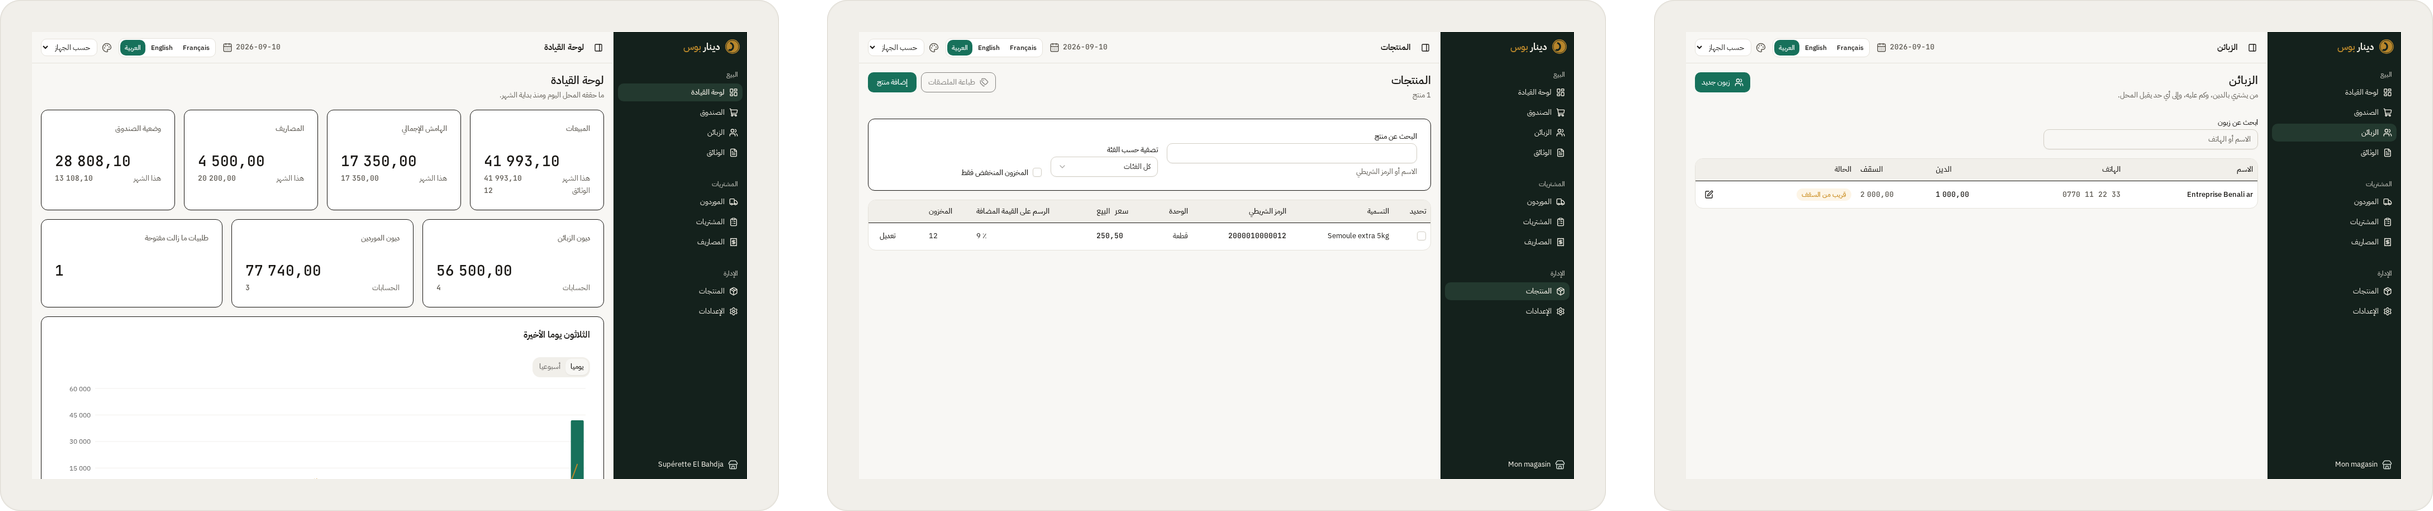
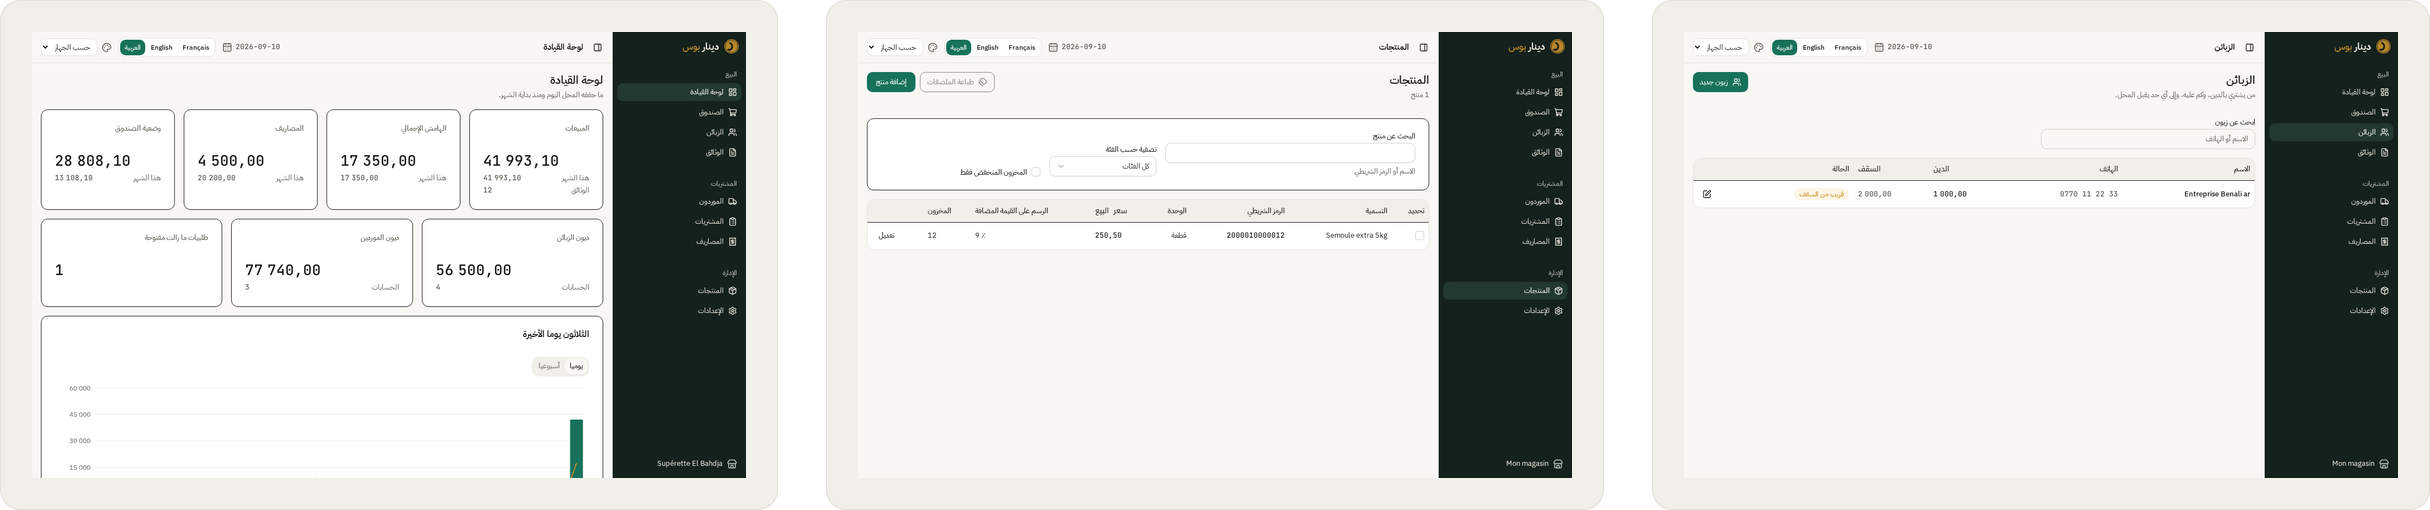
fix(landing): collage @2x tile width is an exact double of @1x
renderCollage rounded cssWidth*scale independently at each scale, so the
@2x tile could land one pixel off an exact double of the @1x tile
(2433x511 instead of 2430x510). Round the @1x tile width once and scale
that integer, so every output's @2x file is a clean 2x render of its @1x
sibling. Also drops readScreenshot and SINGLE_SHOTS, exported but unused
by anything.

ctx: landing-page/L1 progress
Claude-Session: https://claude.ai/code/session_01RTQZKcwLUnTNiaM9PhrHqW

diff --git a/apps/landing/src/lib/shots.ts b/apps/landing/src/lib/shots.ts
@@ -10,7 +10,6 @@
 // what this module produces, so a changed screenshot that nobody reran the
 // script for fails the gates instead of shipping stale art.
 
-import { readFileSync } from "node:fs";
 import { fileURLToPath } from "node:url";
 
 import sharp, { type Sharp } from "sharp";
@@ -22,9 +21,6 @@ const SCREENSHOTS_DIR = fileURLToPath(
 );
 
 const screenshotPath = (name: string): string => `${SCREENSHOTS_DIR}${name}.png`;
-
-/** Reads a committed screenshot's own bytes, so a test comparing hashes has one place to look. */
-export const readScreenshot = (name: string): Buffer => readFileSync(screenshotPath(name));
 
 /**
  * The frame: `design/index.html`'s `.frame` class, unchanged, wrapped around
@@ -158,8 +154,6 @@ export const KNOWING: SingleSpec = {
 };
 export const KNOWING_AR_CROP: Crop = { source: "dashboard-ar", top: 0, height: 950 };
 
-export const SINGLE_SHOTS: readonly SingleSpec[] = [HERO, SELLING, INVOICING, STOCK, KNOWING];
-
 /** Several framed screenshots composed side by side, for the band-of-screens section. */
 export interface CollageSpec {
   readonly key: string;
@@ -232,8 +226,12 @@ const renderCollage = async (
   scale: 1 | 2,
 ): Promise<RenderedShot> => {
   const gap = spec.gapPx * scale;
-  const targetWidth = spec.cssWidth * scale;
-  const tileWidth = Math.round((targetWidth - gap * (spec.crops.length - 1)) / spec.crops.length);
+  // Round the @1x tile width once and scale that integer up, rather than
+  // rounding cssWidth*scale independently at each scale: rounding twice can
+  // pick a different pixel at 2x than exactly double the 1x pixel, so the
+  // @2x file would not be a clean 2x render of the @1x one.
+  const tileWidth1x = Math.round((spec.cssWidth - spec.gapPx * (spec.crops.length - 1)) / spec.crops.length);
+  const tileWidth = tileWidth1x * scale;
 
   const tiles = await Promise.all(spec.crops.map((crop) => frameTile(crop, tileWidth, scale)));
   const canvasHeight = Math.max(...tiles.map((t) => t.height));
